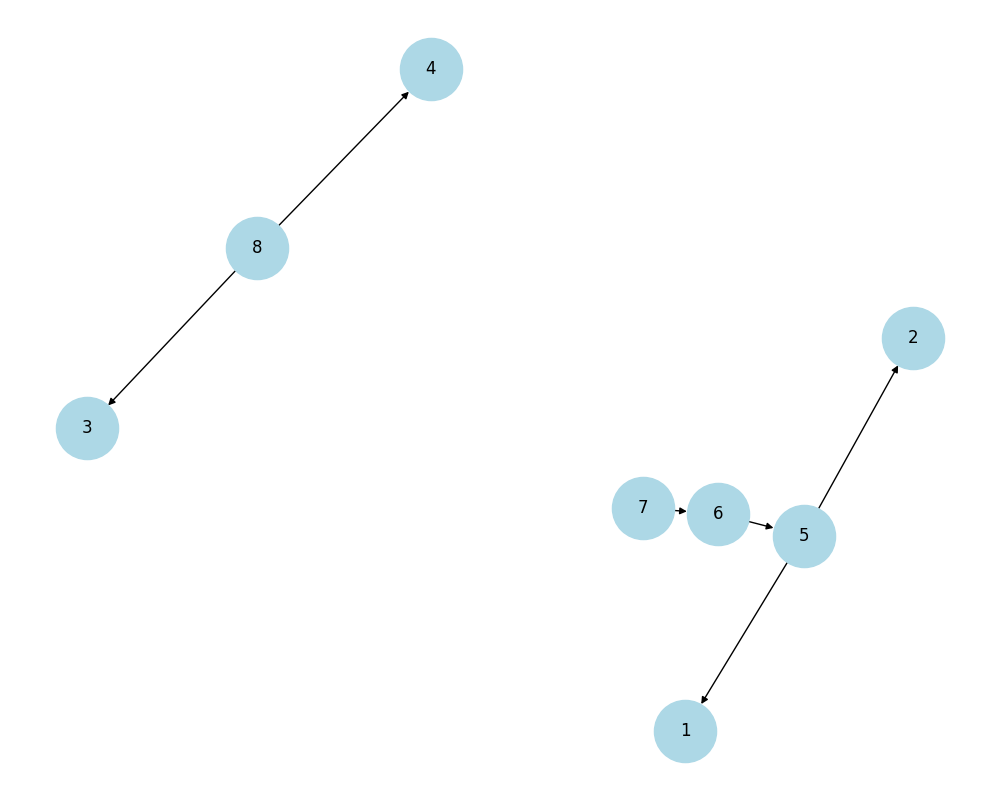
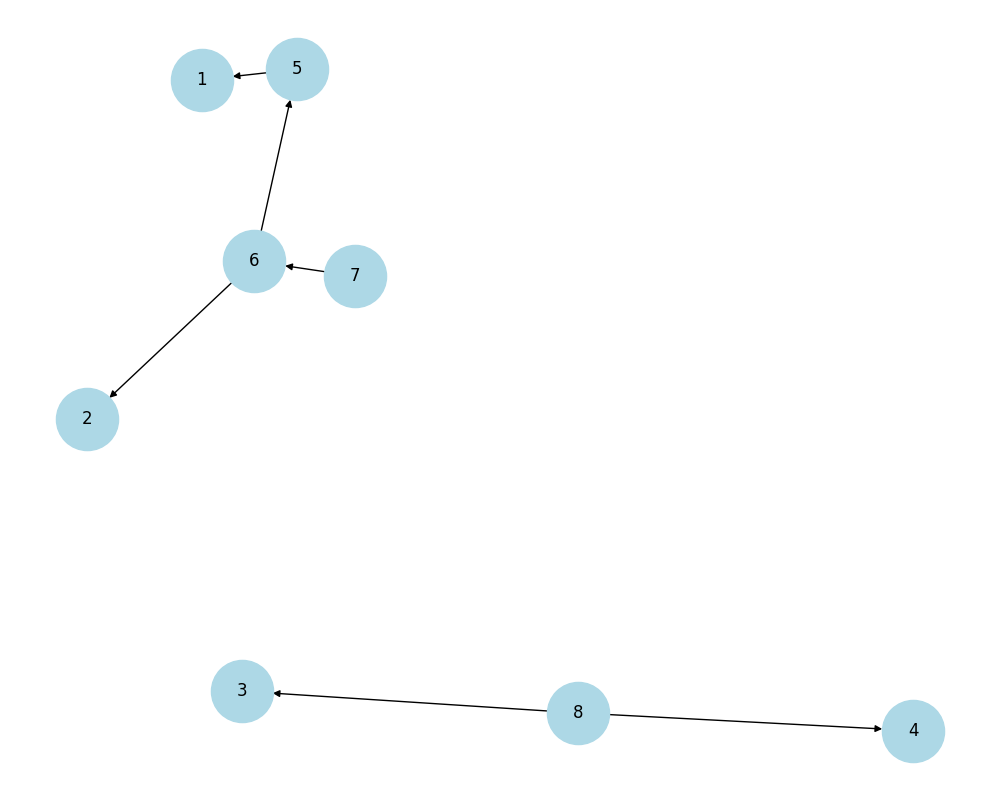
update

diff --git a/6205 Program Structure & Algorithms/Homework3/Question1.py b/6205 Program Structure & Algorithms/Homework3/Question1.py
@@ -2,7 +2,7 @@ import networkx as nx
 import matplotlib.pyplot as plt
 
 G = nx.DiGraph()
-G.add_edges_from([(7,6), (6,5), (5,2), (8,4), (5,1), (8,3)])
+G.add_edges_from([(7,6), (6,2),(6,5), (5,1), (8,4),(8,3)])
 
 pos = nx.spring_layout(G, k=1.0, seed=42)
 
